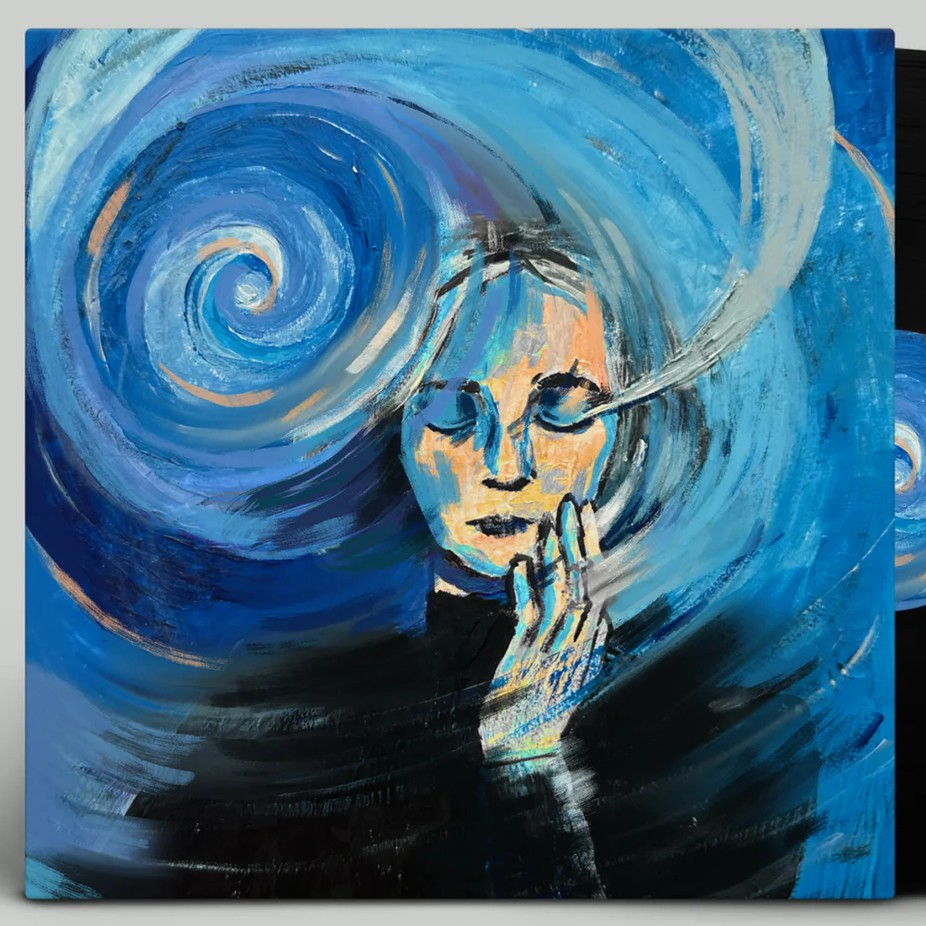
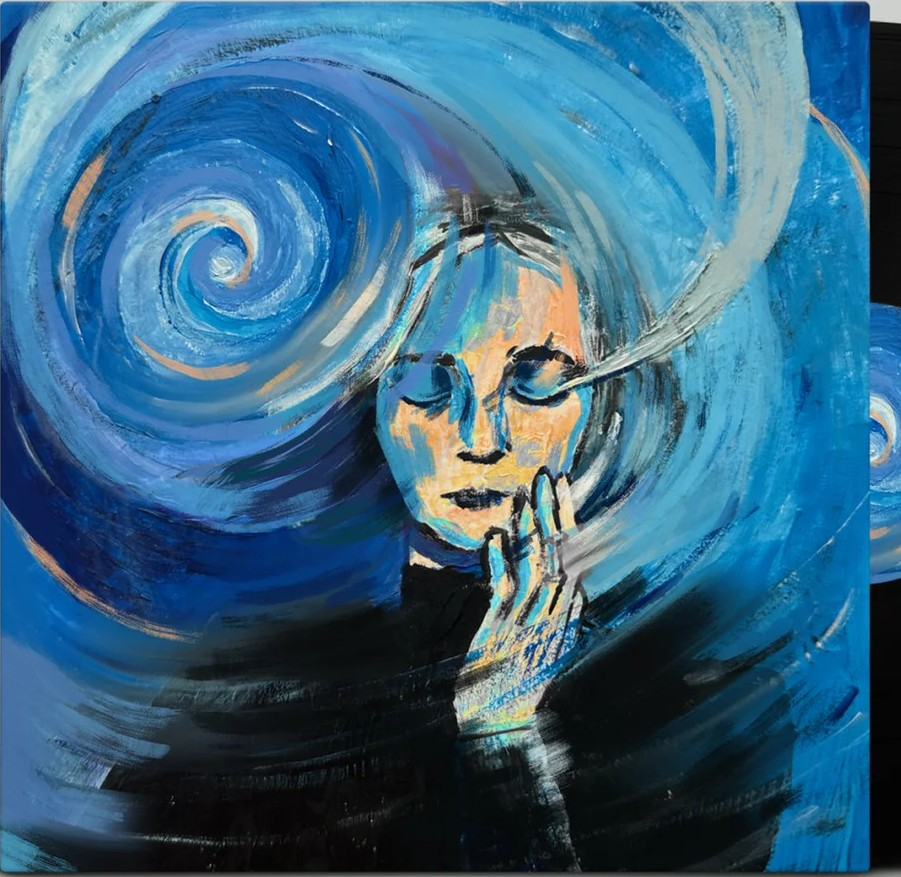
new files and changes

diff --git a/css/style.css b/css/style.css
@@ -42,7 +42,7 @@ nav ul li a:hover, .logo:hover {
 
 }
 .portfolio {
-    width: 55%;
+    width: 80%;
     margin: 80px auto;
 }
 
@@ -58,7 +58,7 @@ nav ul li a:hover, .logo:hover {
 
     grid-template-columns: repeat(
         auto-fit,
-        minmax(280px, 1fr)
+        minmax(500px, 1fr)
     );
 
     gap: 30px;
@@ -123,11 +123,41 @@ nav ul li a:hover, .logo:hover {
 
 .work-card:hover img{
     transform:scale(1.08);
-    filter:brightness(40%);
+    filter:brightness(100%);
 }
 
 .work-card:hover .overlay{
     opacity:1;
+}
+
+.socials {
+    display: flex;
+
+    justify-content: center;
+    align-items: center;
+
+    gap: 1vw;
+
+    margin: 100px auto 18px;
+}
+
+.socials a {
+    width: clamp(30px, 8vw, 50px);
+}
+
+.socials img {
+    width: 100%;
+    height: auto;
+     filter: brightness(0) saturate(100%) invert(34%)     
+      sepia(24%) saturate(1504%)   
+      hue-rotate(222deg) brightness(91%) contrast(86%);
+    display: block;
+
+    transition: transform 0.3s;
+}
+
+.socials img:hover {
+    transform: scale(1.1);
 }
 
 @media (max-width: 768px) {

diff --git a/index.html b/index.html
@@ -16,11 +16,11 @@
      		<ul>
 		         <li><a href="#">My works</a></li>
      		     <li><a href="#">Resume</a></li>
-     		     <li><a href="#">Contacts</a></li>
+     		     <li><a href="#">Contact</a></li>
      		</ul>
      	</nav>
      </div>
-	 <div class="portfolio">
+	<div class="portfolio">
 	 <div class="works-grid">
 
 		<a href="works/home.html" class="work-card">
@@ -87,6 +87,20 @@
 		</a>
 
 	 </div>
+	</div>
+	<div class="foot">
+		<section class="socials">
+
+    <a href="https://www.instagram.com/nenko.png" target="_blank">
+        <img src="ico/instagram-logo-facebook-2-svgrepo-com.svg" alt="Instagram">
+    </a>
+
+    <a href="https://www.linkedin.com/in/anastasiia-chernenko-768370274/" target="_blank">
+        <img src="ico/linkedin-svgrepo-com.svg" alt="LinkedIn">
+    </a>
+
+</section>	
+		<h2 class="logo" style="text-align: center; margin-bottom: 100px;">2026 © Nenko.</h2>
 	</div>
 </body>
 </html>